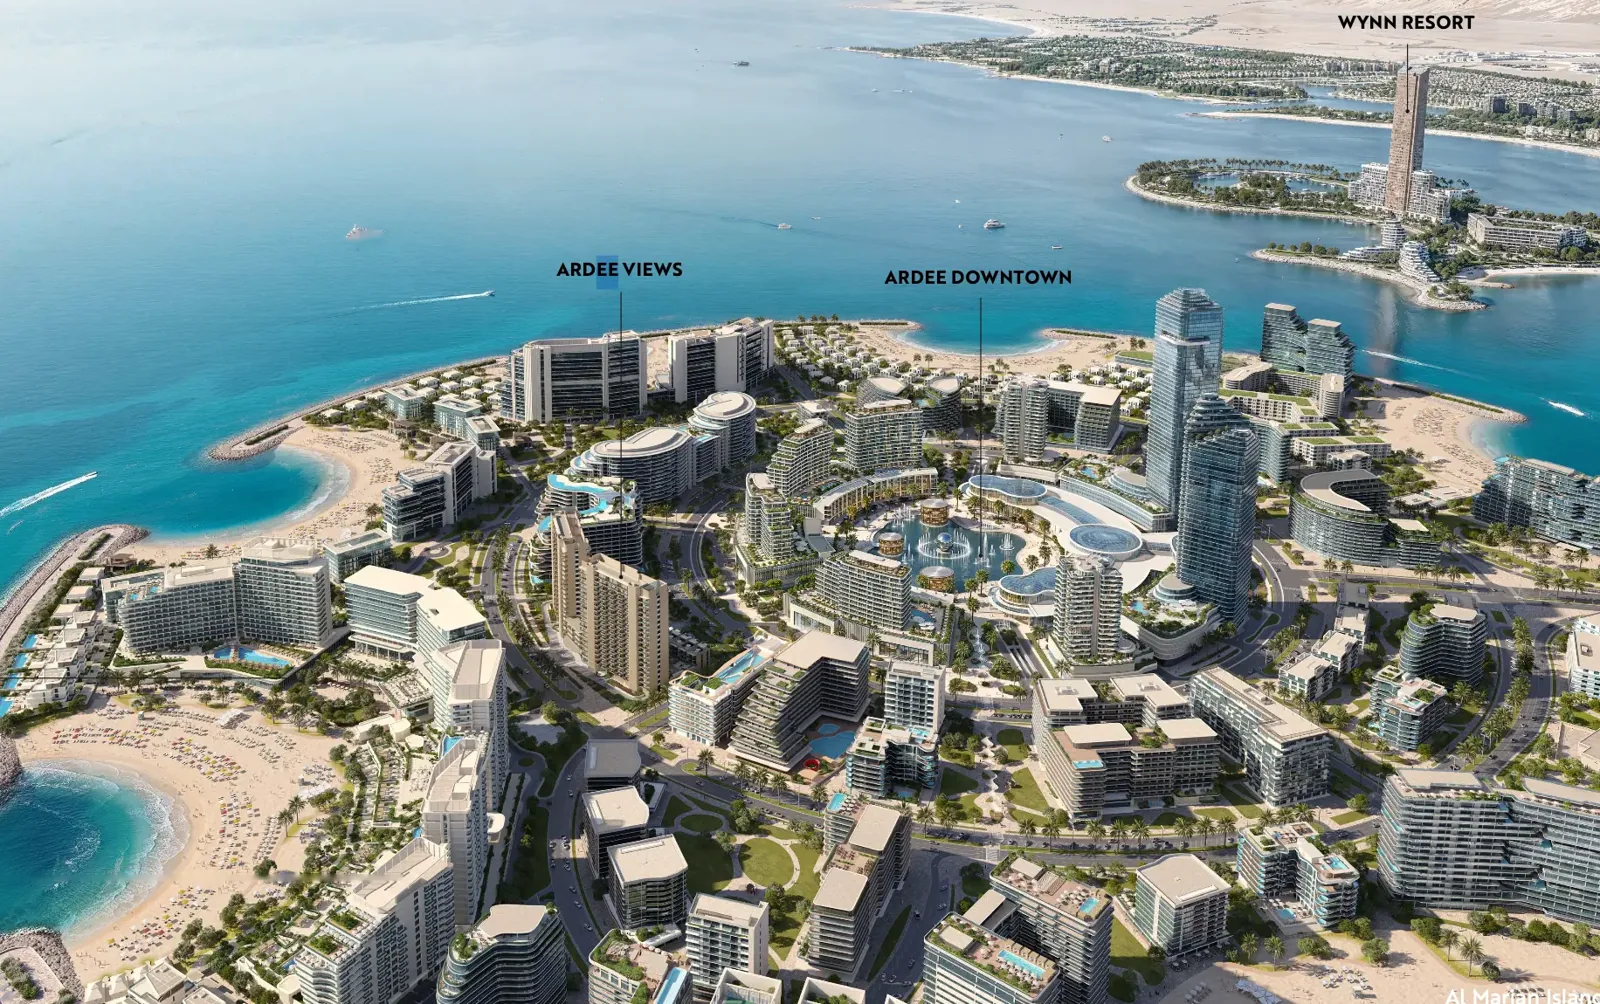
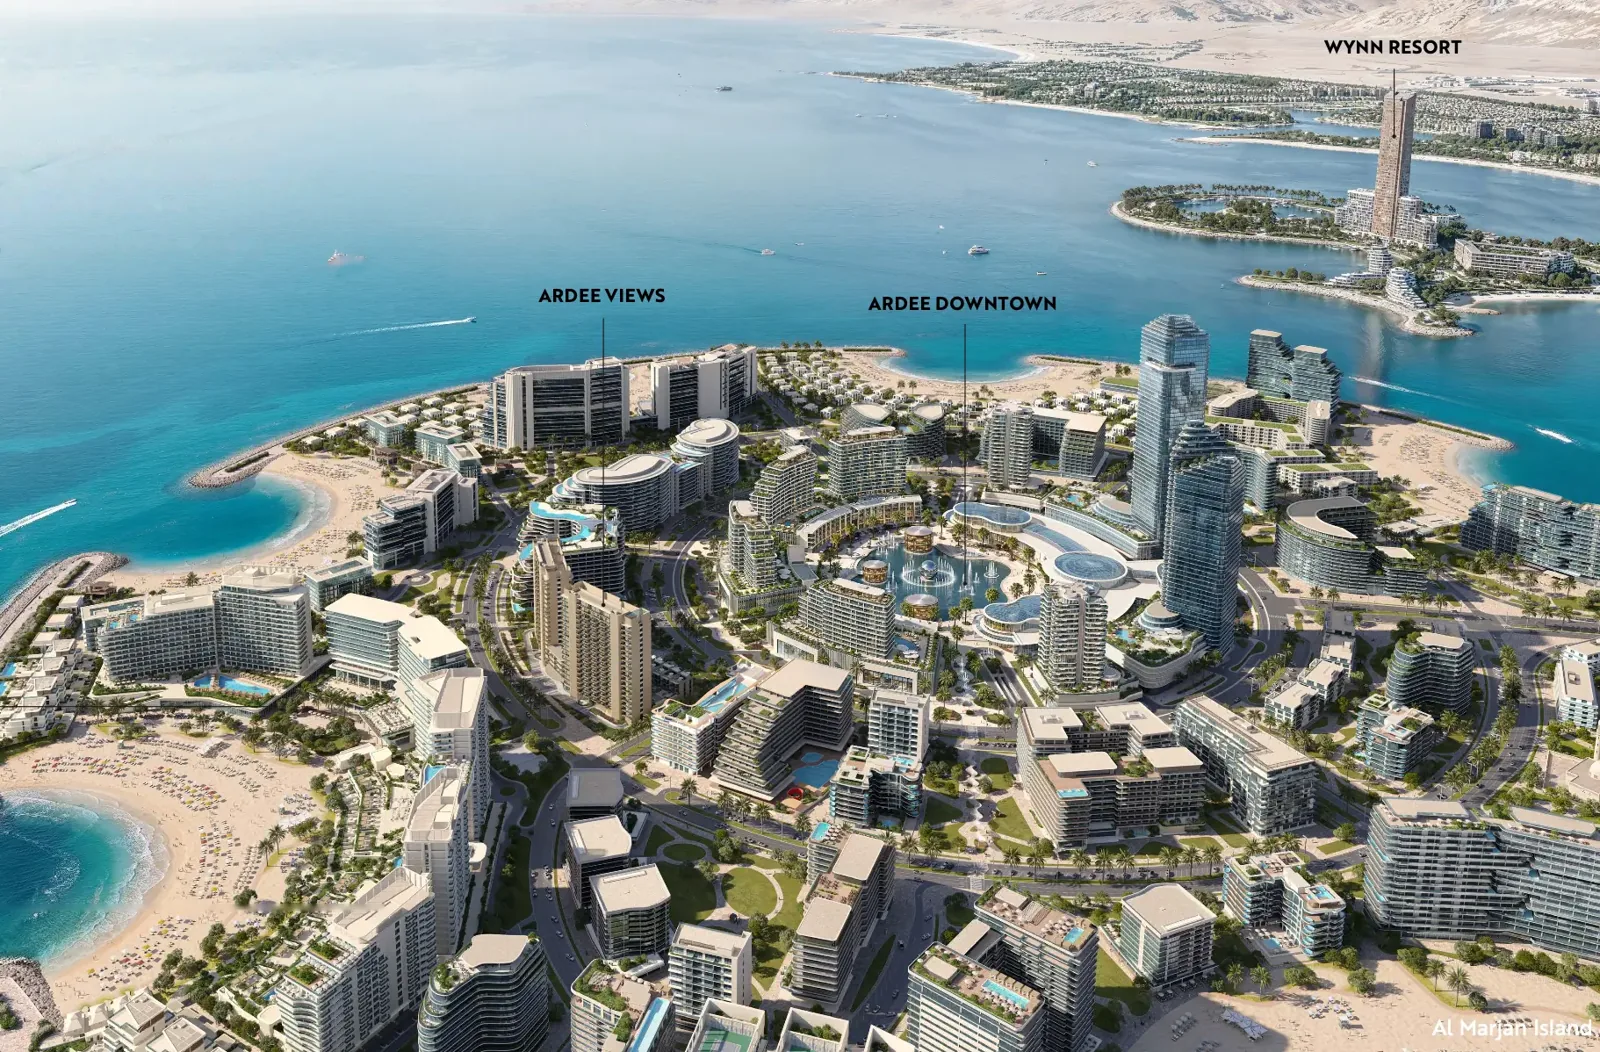
Landing Al Marjan Island: vista aérea limpia (sin textos, líneas ni marcas)
Claude-Session: https://claude.ai/code/session_01VQYs484dKAGxdtaDCa4gXy

diff --git a/al-marjan-island/index.html b/al-marjan-island/index.html
@@ -252,7 +252,7 @@
           </div>
           <p class="src">Fuentes citadas por el promotor: RAK Vision 2030, Fitch Ratings y S&amp;P Global.</p>
         </div>
-        <img src="/assets/img/the-views/isla.webp" alt="Vista aérea de Al Marjan Island con Ardee Views, Ardee Downtown y el Wynn Resort" width="1600" height="1004" loading="lazy" />
+        <img src="/assets/img/the-views/isla.webp" alt="Vista aérea de Al Marjan Island con Ardee Views, Ardee Downtown y el Wynn Resort" width="1600" height="1052" loading="lazy" />
       </div>
     </section>
 
